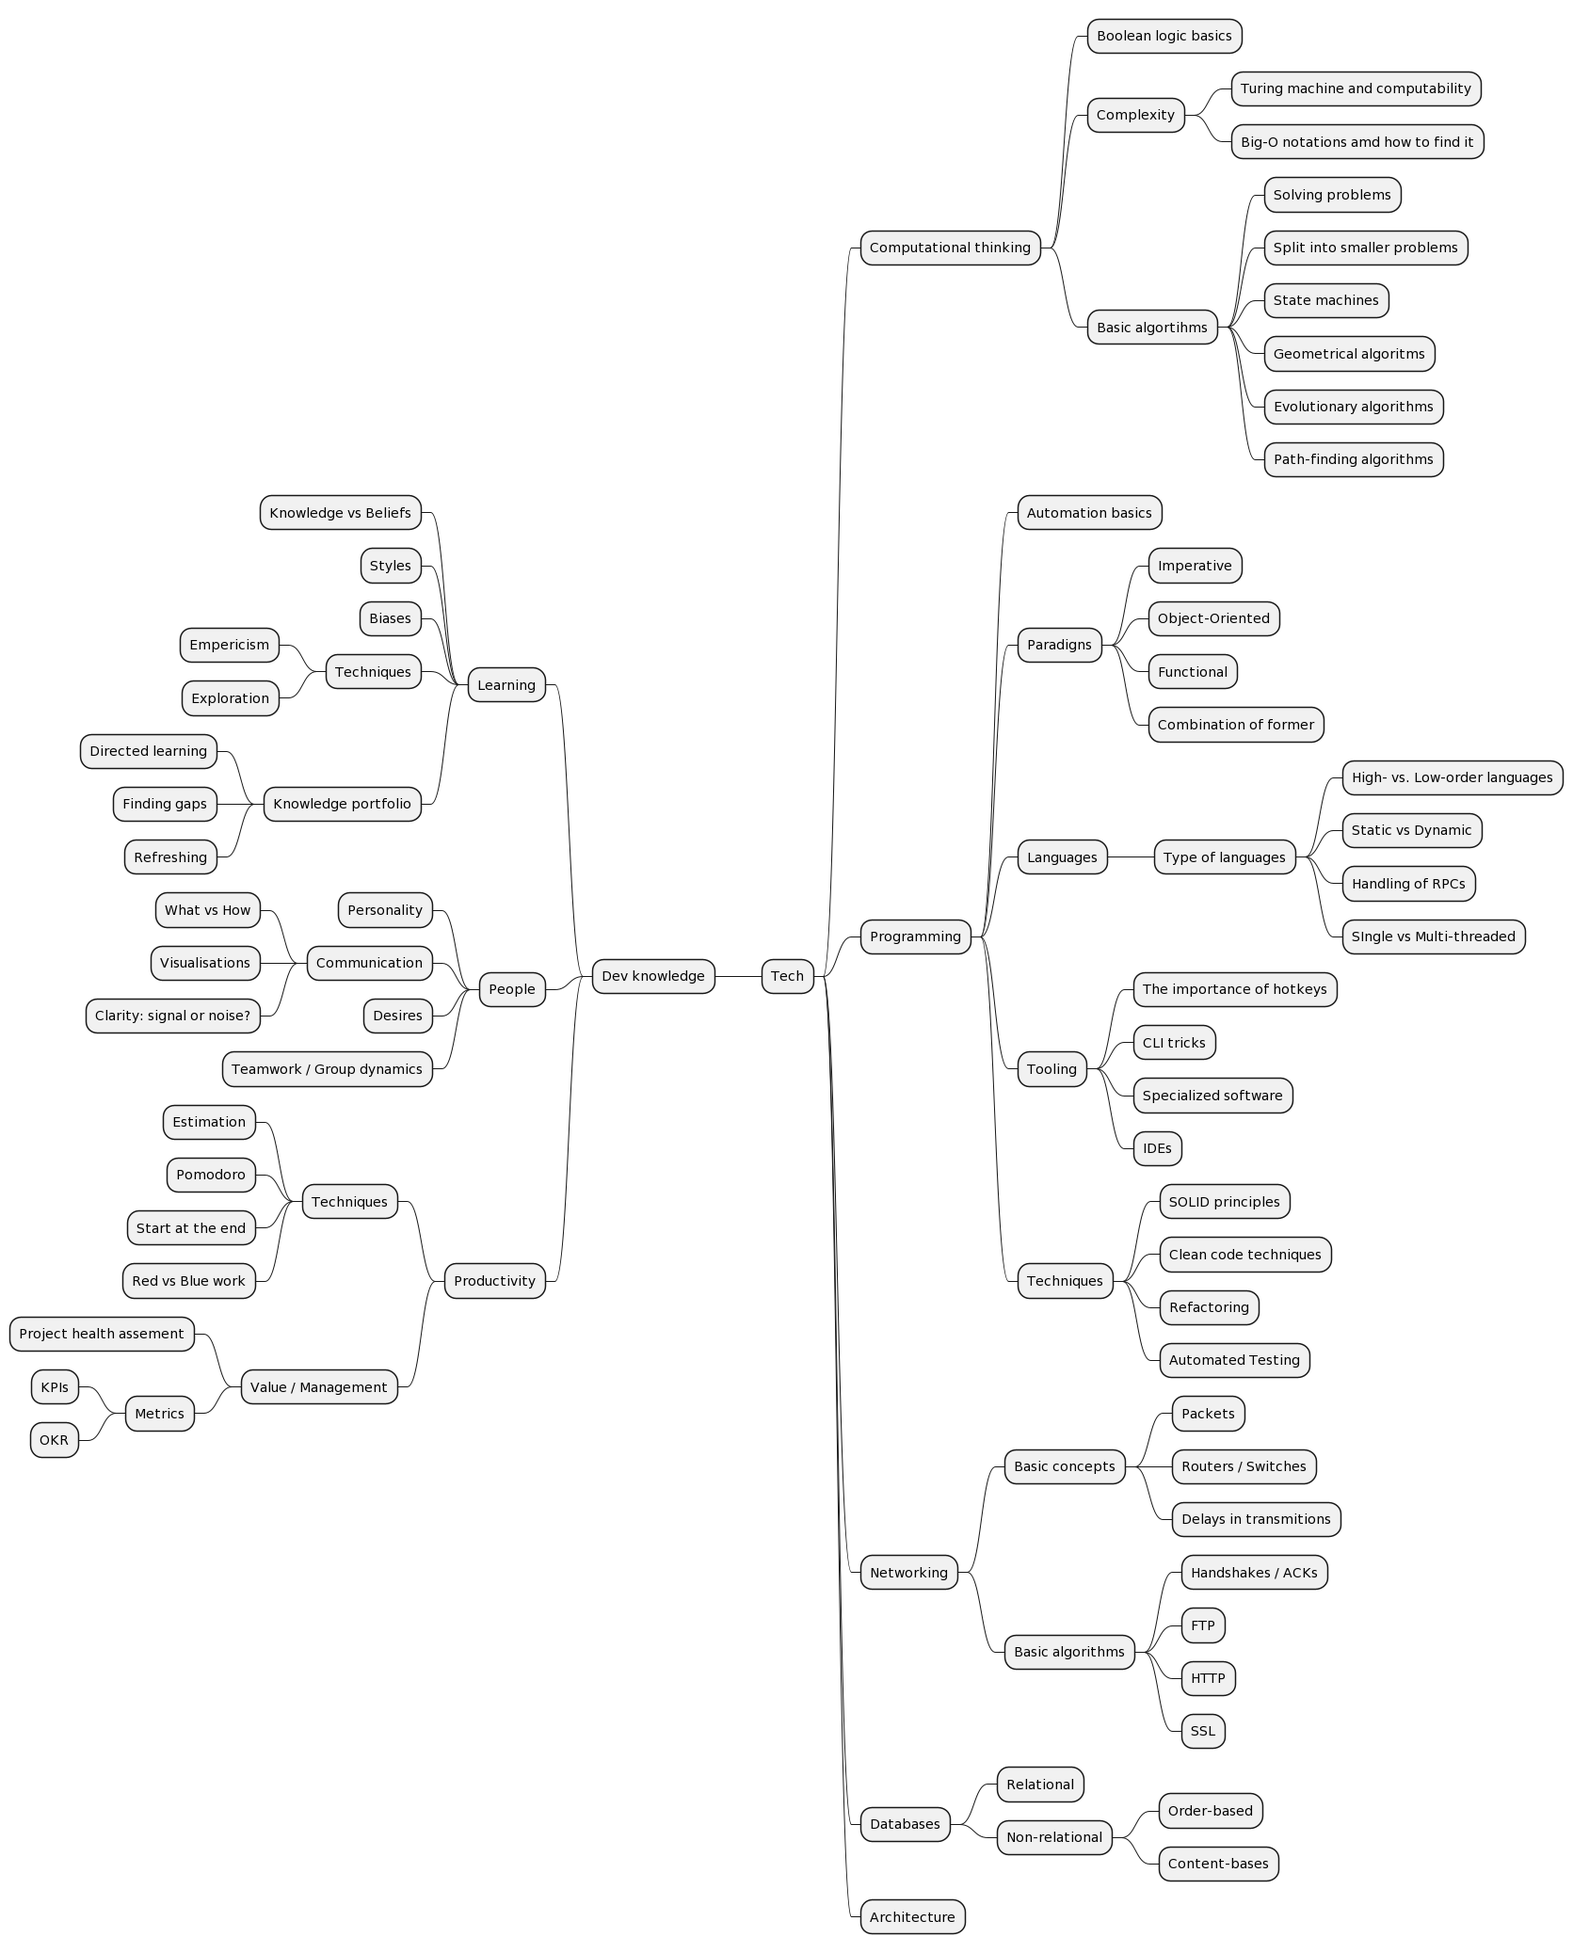
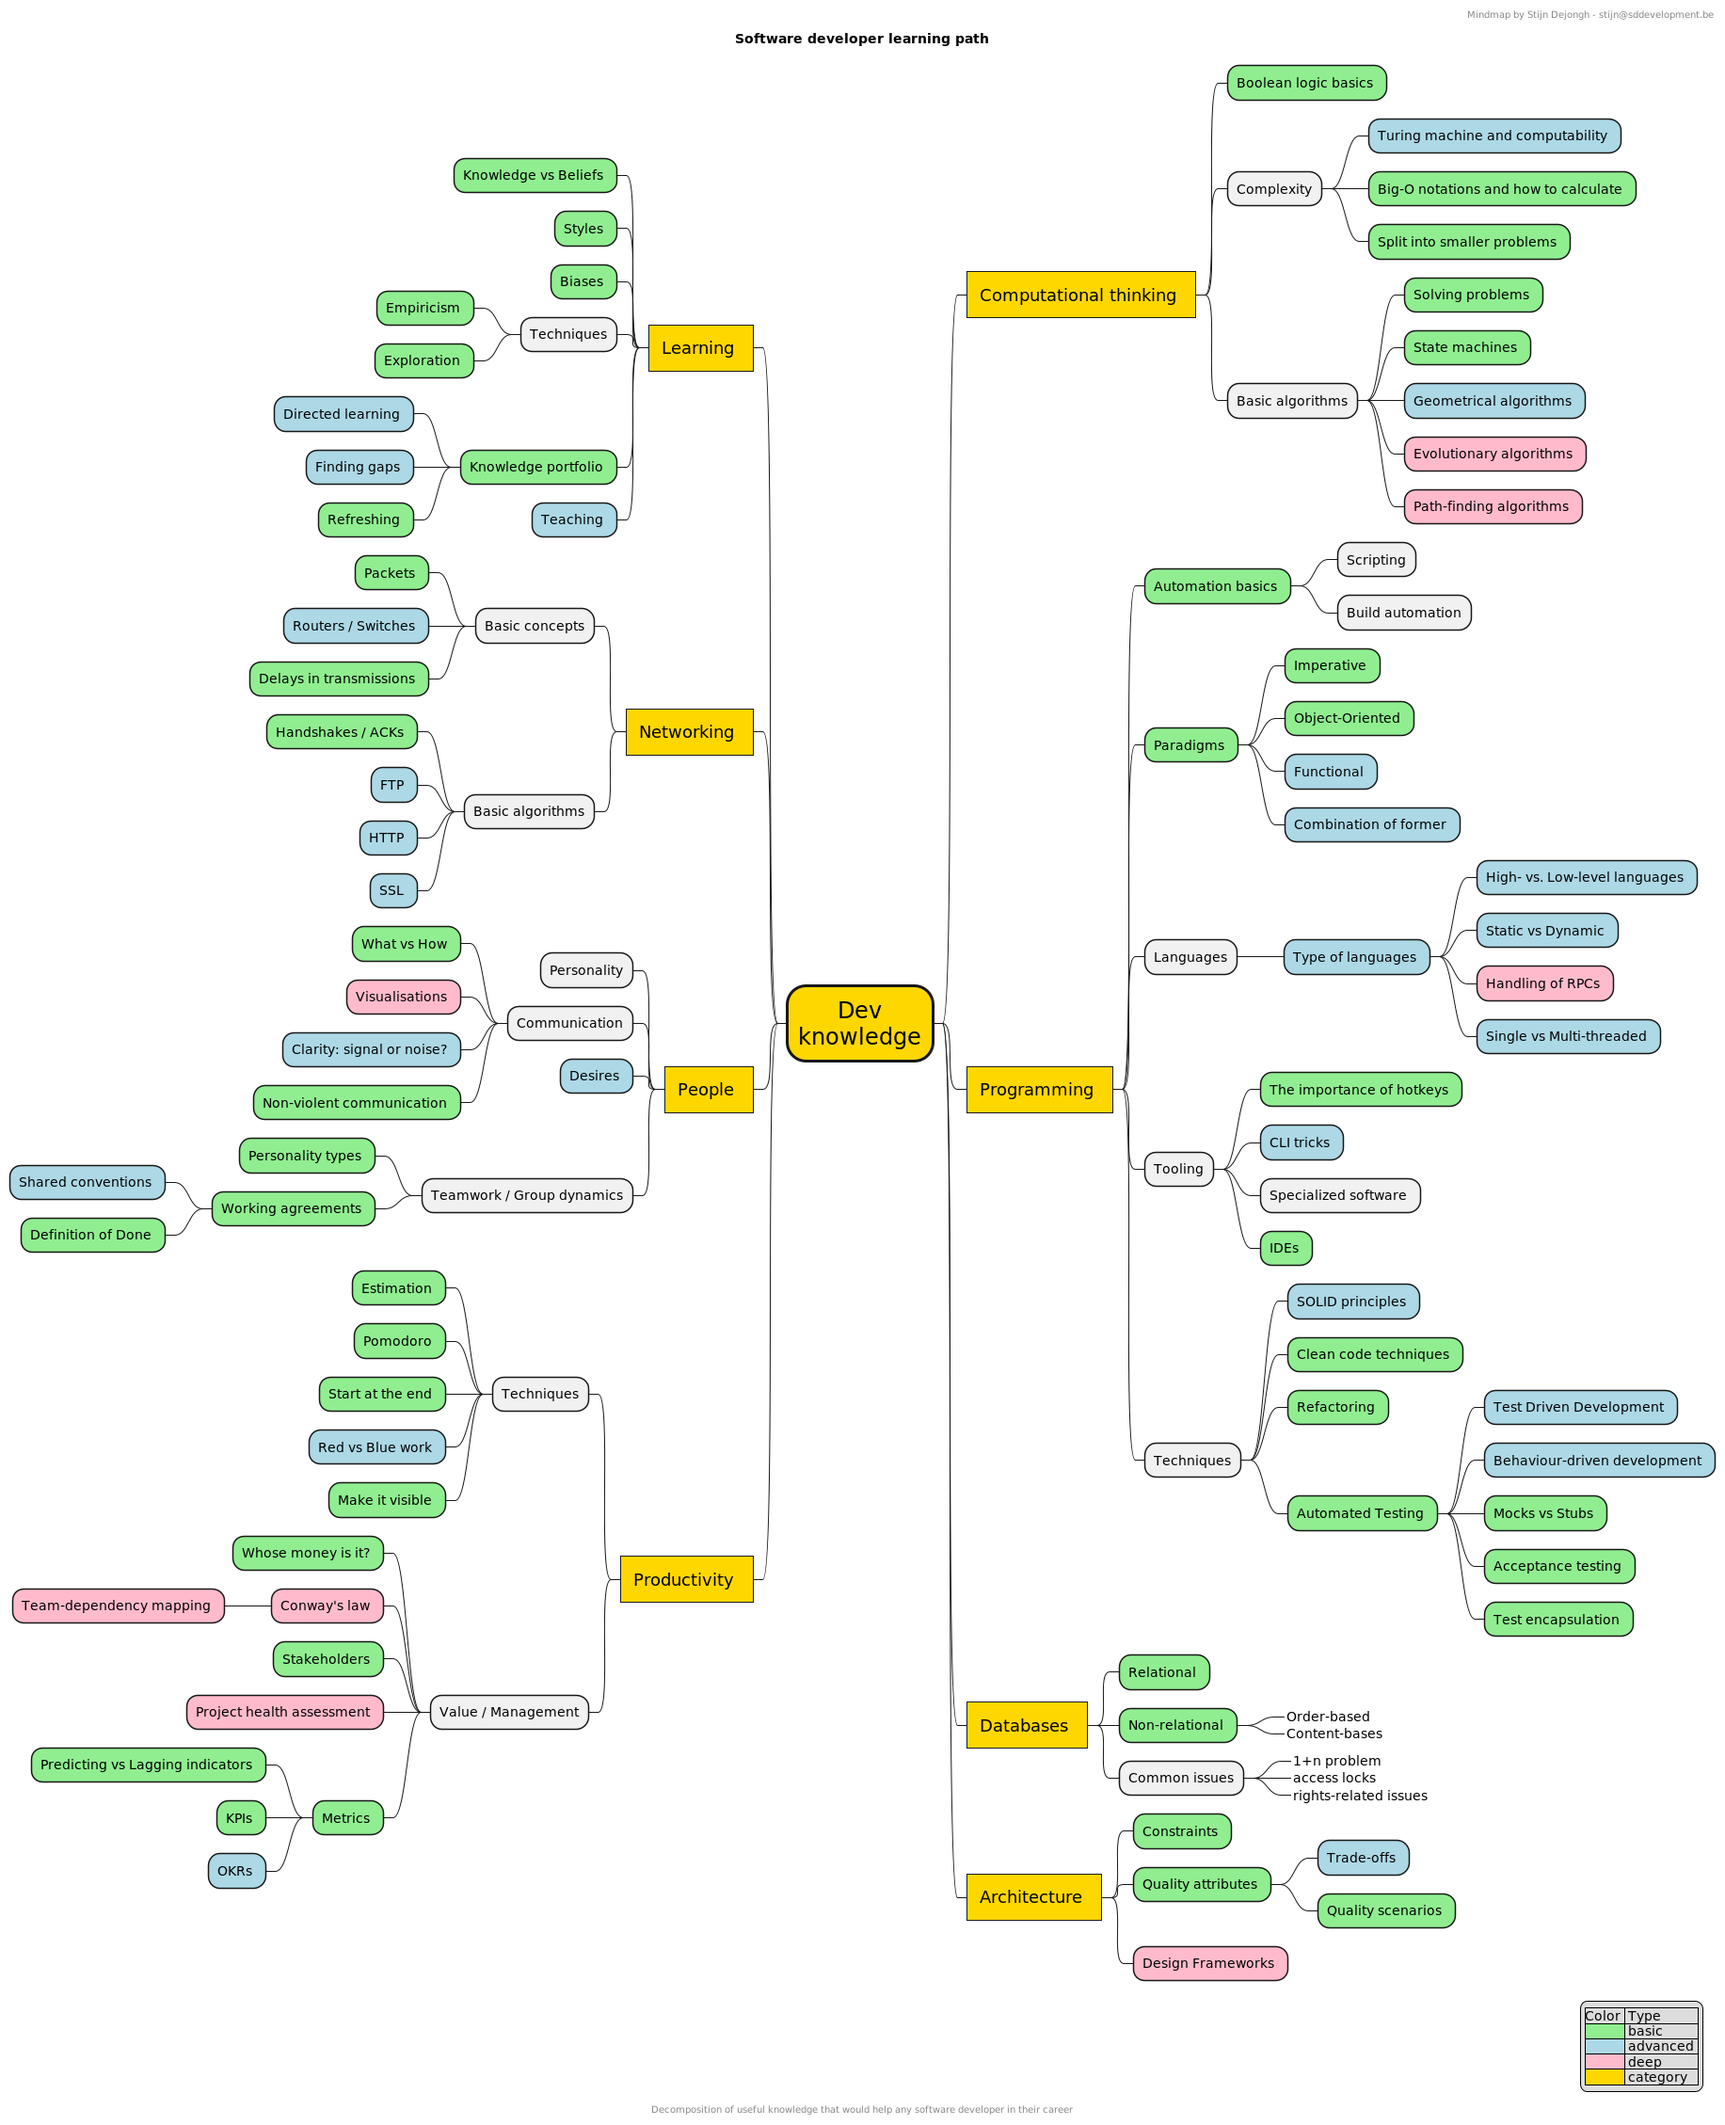
Fix random typos and updated mindmap

diff --git a/src/1_Learning/README.md b/src/1_Learning/README.md
@@ -2,7 +2,7 @@ In the modern economy, the ability to learn new skills and concepts is a signifi
 recognized throughout human history. Societies from Ancient Greece to medieval Japan placed a great value on education and invested heavily in
 knowledge sharing and skill development.
 
-In ancient Greece, education was highly valued, and young boys were taught a wide range of subjects.
+In Ancient Greece, education was highly valued, and young boys were taught a wide range of subjects.
 Their education was comprehensive, covering reading, writing, mathematics, music, and physical education, aiming to produce well-rounded individuals
 who could participate in civic life and contribute to society. The philosophers of Athens, such as Socrates and Plato, emphasized critical thinking
 and self-examination as vital aspects of education.

diff --git a/src/1_Learning/Practices/mindmapping.md b/src/1_Learning/Practices/mindmapping.md
@@ -2,8 +2,6 @@
 
 ### Context
 
-
-
 ### Drivers
 
 * Humans prefer to think in structures, it has been shown that structuring a text or idea helps you refine the knowledge.
@@ -51,7 +49,7 @@ The main advantage here is that you can move quickly (provided your typing speed
 -- Learning
 --- Knowledge vs Beliefs
 --- Styles
---- Biases
+--- Biases_mindmap-Software_developer_learning_path
 --- Techniques
 ---- Empericism
 ---- Exploration
